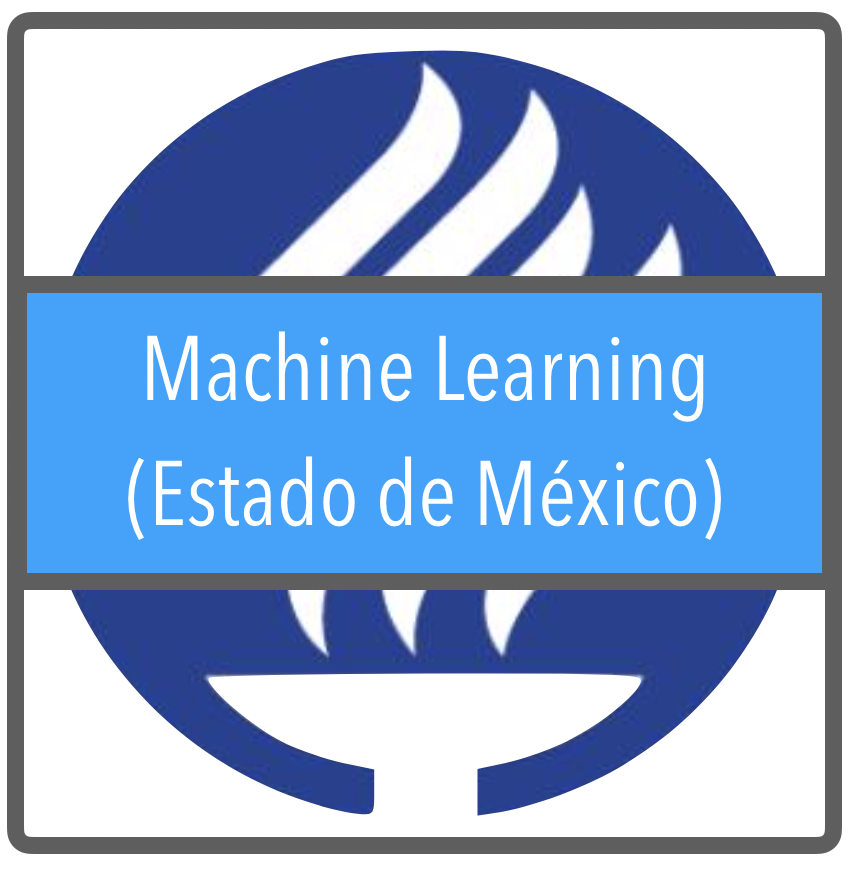
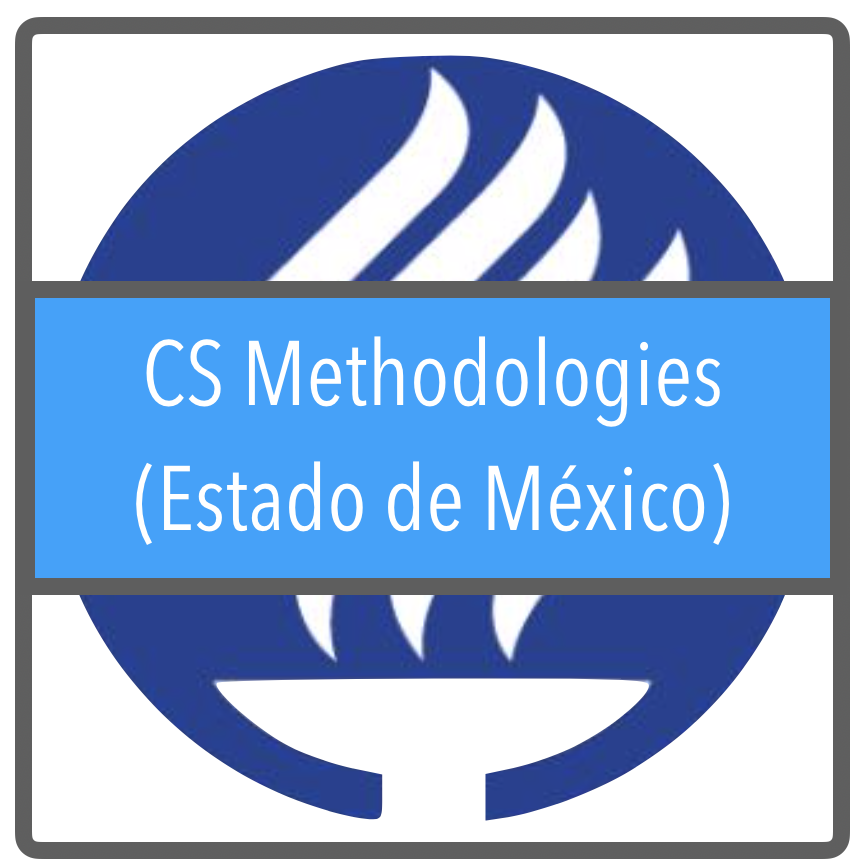
Content updates to the CS Methodologies section.

diff --git a/docs/MachineLearning.md b/docs/MachineLearning.md
@@ -1,4 +1,32 @@
-# Coming Soon
+# Application of Computational Methodologies to Mosquito-Borne Diseases
+
+These projects are the continuation of the thesis project [SoNA3BS](), in which computational methodologies such as agent-based modeling and network theory were applied to the field of mosquito-borne diseases.
+
+<hr>
+
+## PhD Thesis
+
+**SoNA3BS: An Agent-Based Model to Study High-Resolution Spatial Heterogeneity in Aedes aegypti-Borne Diseases Through the Use of Network Theory.** *Héctor M. Sánchez C., John M. Marshall, Edgar E. Vallejo*
+
+In this thesis work, we explored the usefulness of the combination of agent-based modelling with network theory analysis to understand the fine-scale details of mosquito borne diseases transmission in heterogeneous environments. We used graph theory to compare three mosquito control interventions and to show how these ideas can be extended to a larger analysis framework. For more information please read the [thesis publication]().
+
+<img src="./media/sonabs.jpg" width="100%" align="middle">
+
+<br>This project was funded by *CONACyT*, *UC-Mexus*, and *Google Research Awards: Latin America*.
+
+## Masters Thesis
+
+**Zika Predictions Through Machine Learning** *Kevin Islas Abud, Héctor M. Sánchez C., Edgar E. Vallejo*
+
+This project is being developed in the following [github repository](https://github.com/elapuestojoe/ziknet-trends-backend/invitations).
+
+<br>This project is funded by *CITRIS* and *Google Research Awards: Latin America*.
+
+## Masters Thesis
+
+**Mosquito Control Interventions Effects** *Luis Rodrigo Careaga Sotomayor, Héctor M. Sánchez C., Edgar E. Vallejo*
+
+<hr>
 
 ## Collaborators
 

diff --git a/docs/Campus.md b/docs/Campus.md
@@ -11,7 +11,7 @@ In terms of [software development](./ITESM.html), we are working with Benjamín 
 
 The [remote sensing](./EnvironmentalSensors.html) project is in the techincal specification stage. We are working with Camilo Duque ("Mechatronics Engineering" program director in campus León) in determining the technical requirements for an autonomous sensing device to capture environmental data information relevant in the mosquito-borne diseases context.
 
-For the [machine learning](./MachineLearning.html) we are collaborating with Edgar Vallejo (CS faculty in campus Estado de México) both in the development of techniques to predict the mosquito counts given environmental variables, and the prediction of Zika cases using weather data and Google Trends.
+For the [computer science methodologies](./MachineLearning.html) projects we are collaborating with Edgar Vallejo (CS faculty in campus Estado de México) both in the development of techniques to predict the mosquito counts given environmental variables, and the prediction of Zika cases using weather data and Google Trends; as well as the prediction of impacts of mosquito control interventions in spatially explicit heterogeneous populations.
 
 _Plese click on the images for more information about each project._
 

diff --git a/docs/EnvironmentalSensors.md b/docs/EnvironmentalSensors.md
@@ -5,17 +5,17 @@ This project was generated upon the need of the accurate logging of environmenta
 ## Requirements
 
 * Low energy consumption
-* Sensors:
-  * Humidity
-  * Temperature
-  * Atmosferic Pressure
-  * Rainfall?
 * Small size
+* Robust to physical abuse
 
 ## Technical Specifications
 
-* __Sampling Rate__:
+* __Sampling Rate__: 2 (1/hour)
 * __Resolution__:
+  * __Humidity__:
+  * __Temperature__: ± 0.5 Centigrade
+  * __Atmosferic Pressure__:
+  * __Wind Direction & Speed__:
 * __Environmental Variables__:
 * __Other__: Offline data dump to a flash drive
 
